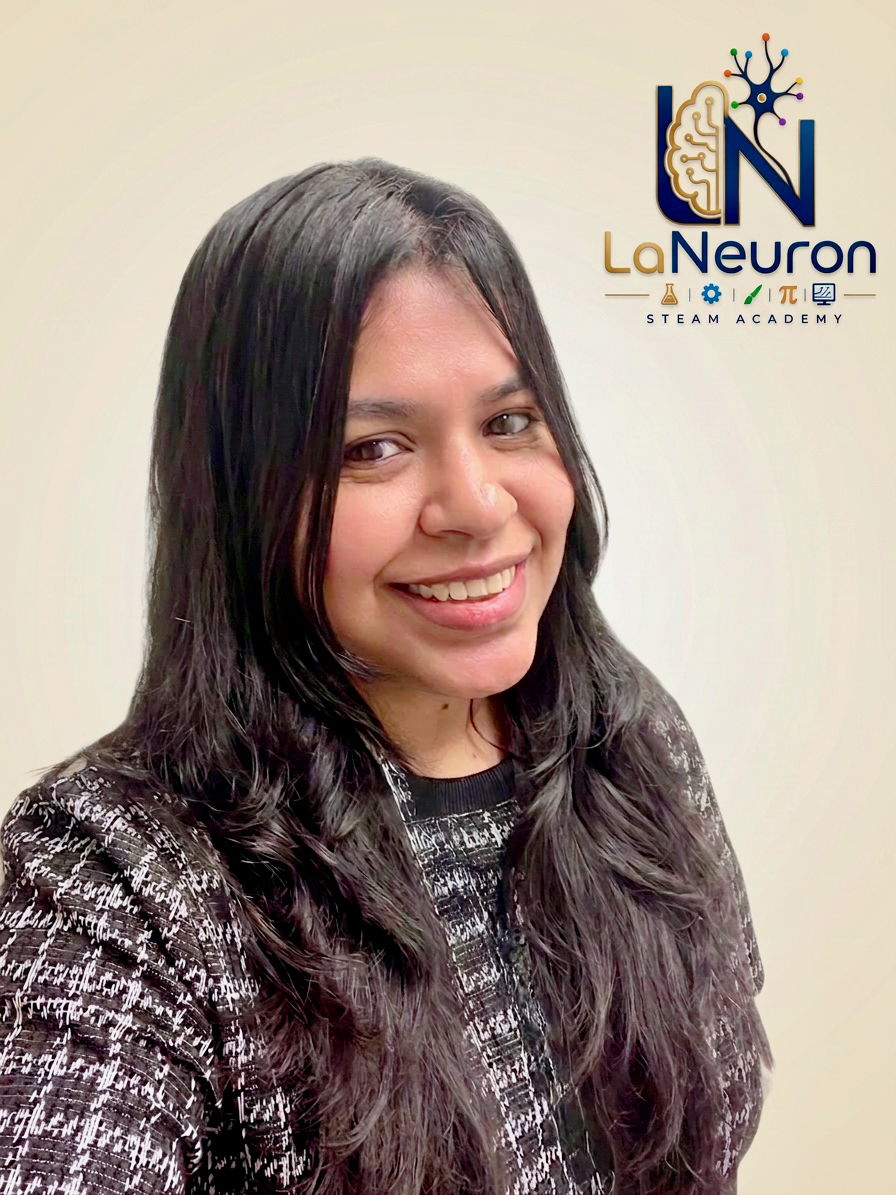
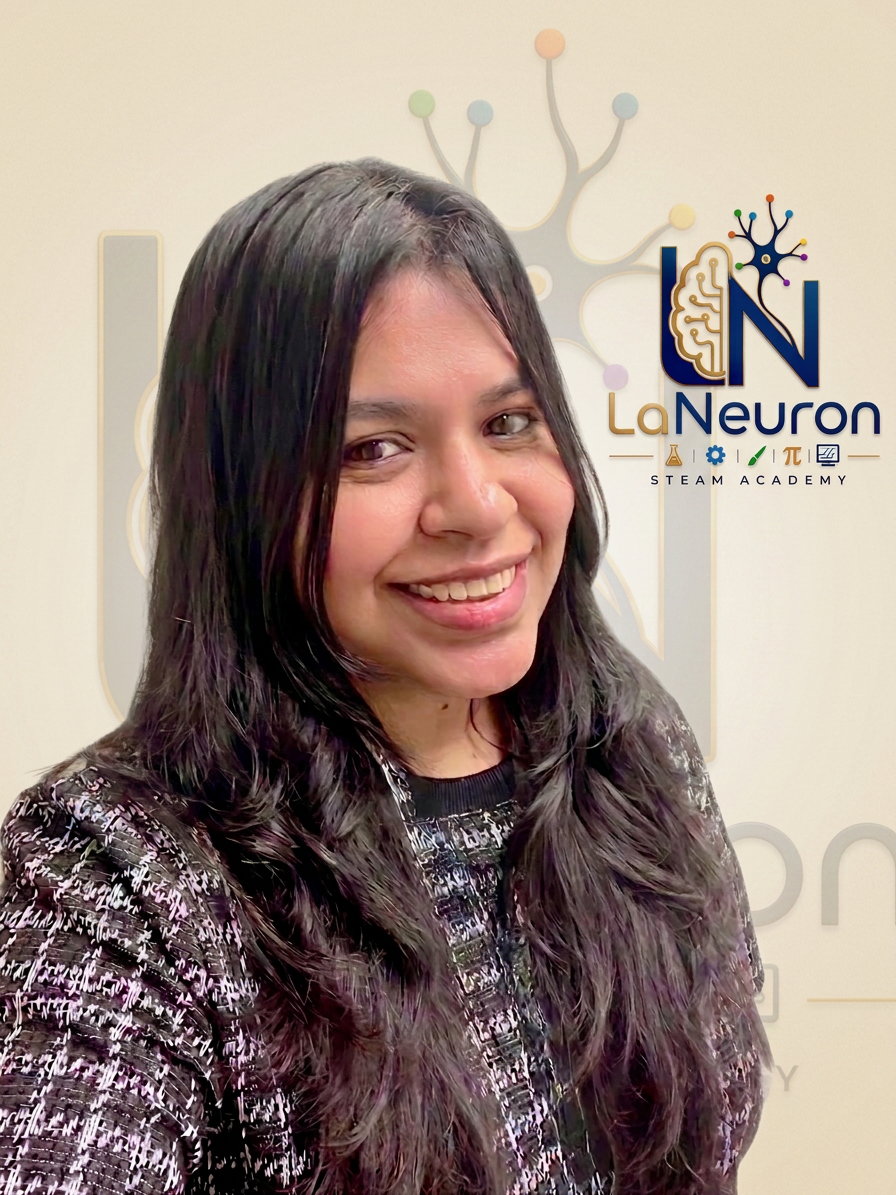
auto-commit for da738a91-53b0-464a-ad63-b27f7217a87b

diff --git a/frontend/src/components/Navbar.jsx b/frontend/src/components/Navbar.jsx
@@ -26,9 +26,13 @@ export const Navbar = ({ onRegister }) => {
         scrolled ? "bg-white/95 backdrop-blur border-b-2 border-[#0F172A]" : "bg-transparent"
       }`}
     >
-      <div className="max-w-7xl mx-auto px-6 lg:px-8 flex items-center justify-between h-20 sm:h-24">
+      <div className={`max-w-7xl mx-auto px-6 lg:px-8 flex items-center justify-between transition-all duration-300 ${scrolled ? "h-20" : "h-28 sm:h-[220px]"}`}>
         <button onClick={() => go("#home")} data-testid="logo" className="flex items-center">
-          <img src={logo} alt="La Neuron – STEAM Academy" className="h-14 sm:h-[72px] w-auto" />
+          <img
+            src={logo}
+            alt="La Neuron – STEAM Academy"
+            className={`w-auto transition-all duration-300 ${scrolled ? "h-12 sm:h-16" : "h-24 sm:h-[200px]"}`}
+          />
         </button>
 
         <nav className="hidden lg:flex items-center gap-1">

diff --git a/frontend/src/components/sections/Hero.jsx b/frontend/src/components/sections/Hero.jsx
@@ -15,7 +15,7 @@ const Floating = ({ children, className, delay = 0 }) => (
 
 export const Hero = ({ onRegister }) => {
   return (
-    <section id="home" className="relative pt-32 pb-20 lg:pt-40 lg:pb-28 overflow-hidden ln-grid-bg">
+    <section id="home" className="relative pt-36 pb-20 sm:pt-[250px] lg:pt-[260px] lg:pb-28 overflow-hidden ln-grid-bg">
       {/* blobs */}
       <div className="pointer-events-none absolute -top-24 -right-24 w-96 h-96 rounded-full bg-[#E0E7FF] blur-3xl opacity-60" />
       <div className="pointer-events-none absolute bottom-0 -left-24 w-80 h-80 rounded-full bg-[#FFE4E4] blur-3xl opacity-60" />